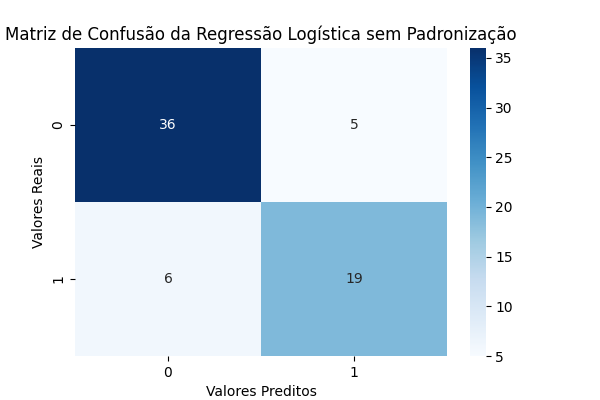
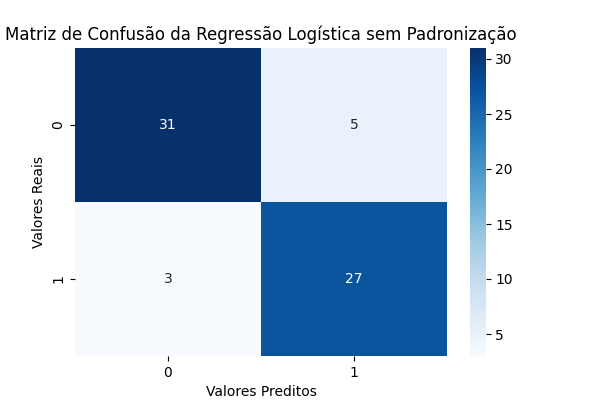
fix retirada de outliers

diff --git a/main.py b/main.py
@@ -40,27 +40,22 @@ IQR = Q3 - Q1
 outliers = ((X < (Q1 - 1.5 * IQR)) | (X > (Q3 + 1.5 * IQR))).sum()
 
 # =================================================================================================
-# Mostre a quantidade de outliers por coluna
-clf = LocalOutlierFactor(n_neighbors=20)
-scores = clf.fit_predict(X)
-outliers = X[scores < 0]
-
-# =================================================================================================
-
-# Retirada dos outliers
+#Retirada de outliers
 numeric_columns = data.select_dtypes(include=[int, float]).columns
-# Defina um limite para o escore Z (por exemplo, 3) para identificar outliers
 z_score_threshold = 3
+outliers_removed = 0
 for column in numeric_columns:
     z_scores = stats.zscore(data[column])
+    outliers = data[(z_scores >= z_score_threshold) | (z_scores <= -z_score_threshold)]
+    outliers_removed += len(outliers)
     data = data[(z_scores < z_score_threshold) & (z_scores > -z_score_threshold)]
-# =================================================================================================
 
+# =================================================================================================
 # Obtenha o número de dados aproveitados
 n_dados = len(data)
 percent_75 = int(0.75 * n_dados)
 percent_25 = n_dados - percent_75
-print("Retirado " + str(len(outliers)) + " outliers")
+print("Retirado " + str(outliers_removed) + " outliers")
 print("Quantidade de dados utilizados (retirando outliers): " + str(n_dados))
 print("75% dos dados (treinamento): " + str(percent_75))
 print("25% dos dados (testes): " + str(percent_25))
